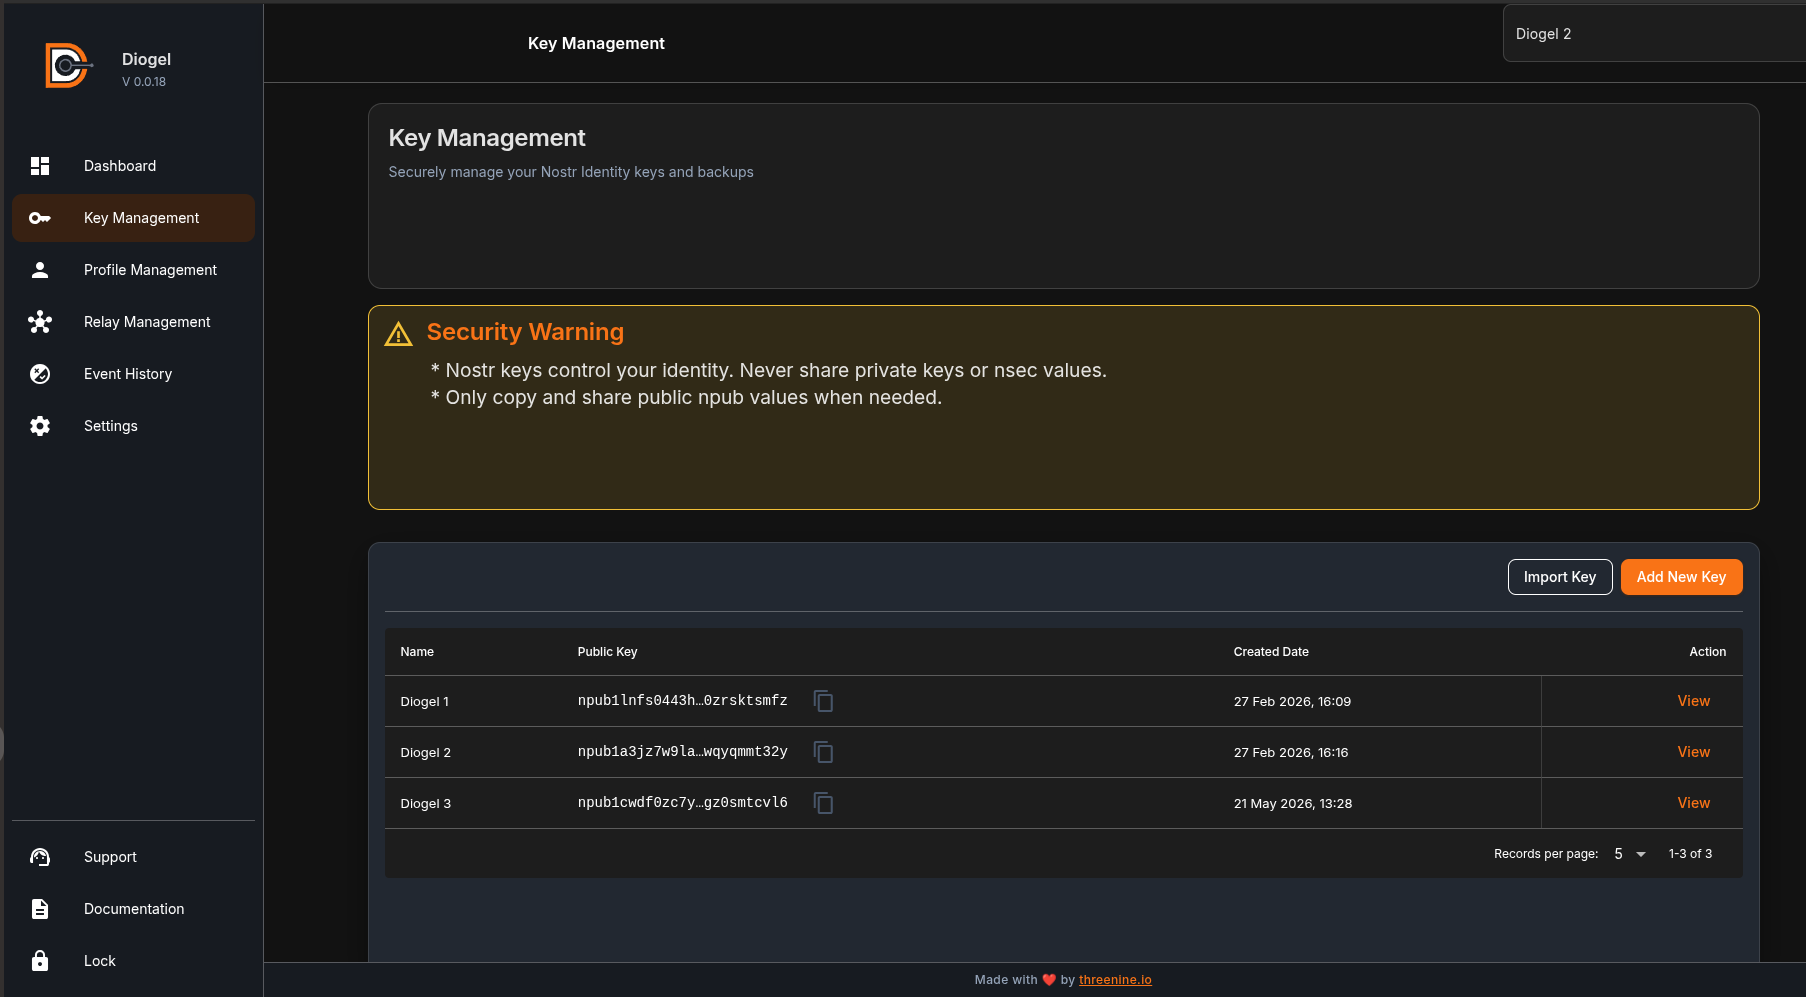
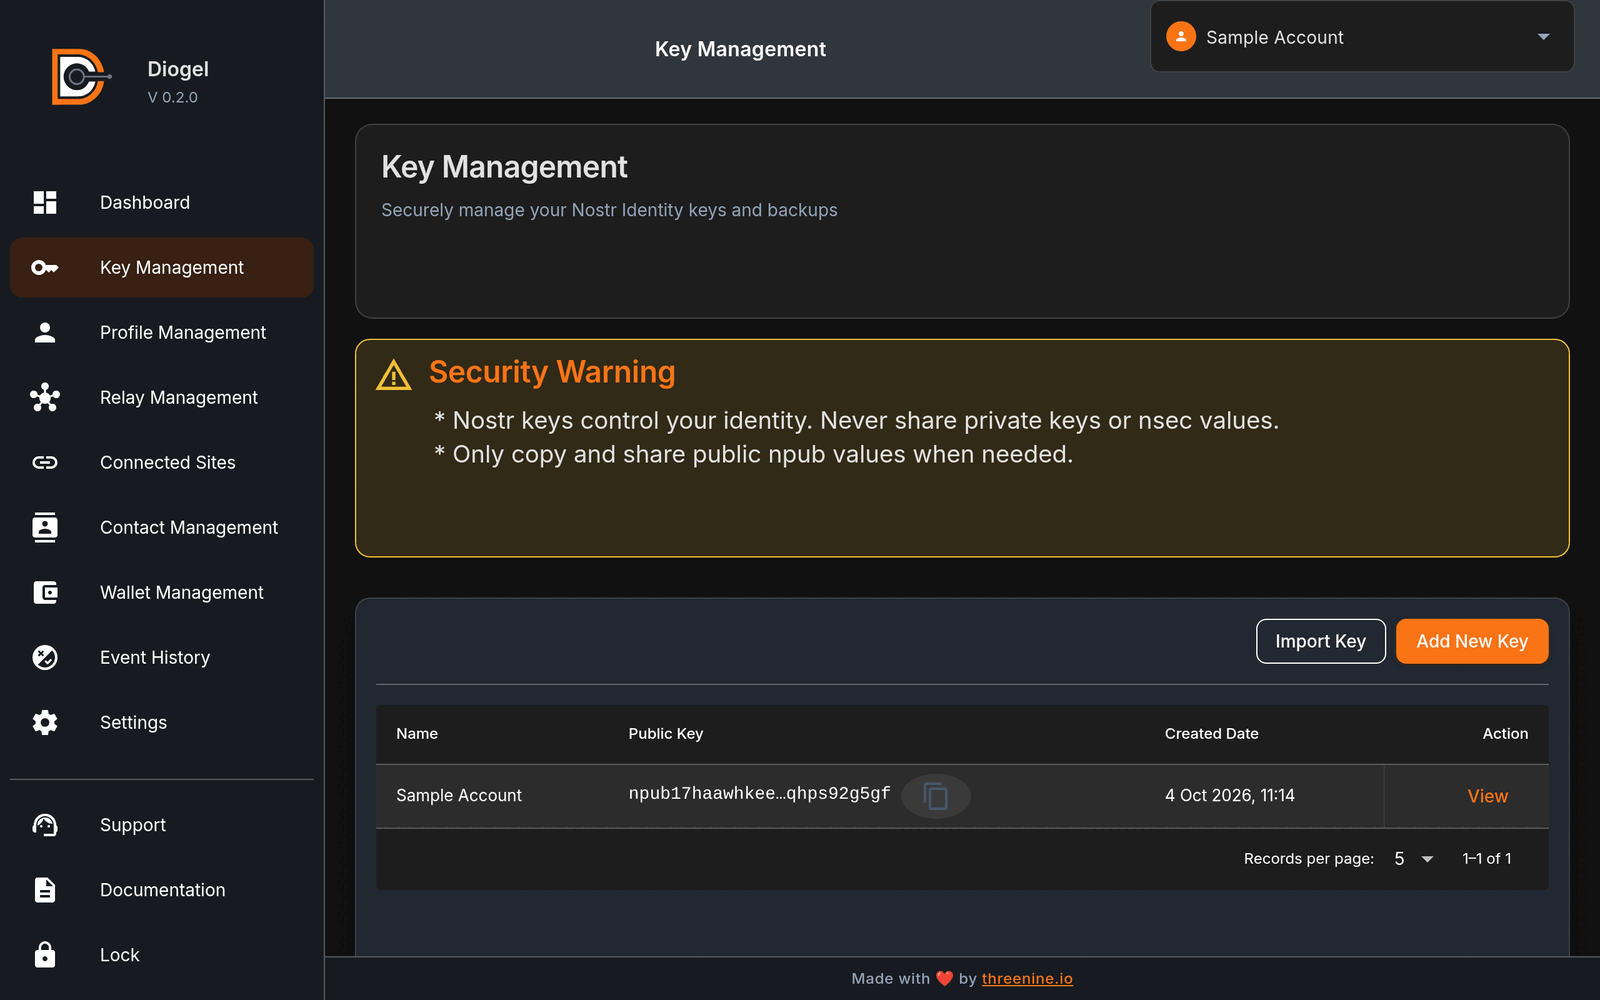
feat(website): add product screenshots to the product pages
Add real screenshots of Porwr (0.2.0), Bancwr (0.1.0-113) and a Symudol
development build to every product section, captured locally with
throwaway identities. Constrain image height on the Porwr and Symudol pages
so panel and phone shots are not oversized, and remove the stale
nip07-signing.png and the unused privacy-dashboard.png.

Fixes diogel-io/workspace#30

diff --git a/app/pages/symudol.vue b/app/pages/symudol.vue
@@ -36,7 +36,7 @@ useHead({ link: [{ rel: 'canonical', href: 'https://diogel.io/symudol' }] })
         v-if="section.image"
         :alt="section.title"
         :src="section.image"
-        class="w-full rounded-lg shadow-xl ring-1 ring-gray-300 dark:ring-gray-700"
+        class="mx-auto max-h-[640px] w-auto max-w-full rounded-lg shadow-xl ring-1 ring-gray-300 dark:ring-gray-700"
       >
     </UPageSection>
 

diff --git a/app/pages/porwr.vue b/app/pages/porwr.vue
@@ -35,7 +35,7 @@ useHead({ link: [{ rel: 'canonical', href: 'https://diogel.io/porwr' }] })
         v-if="section.image"
         :alt="section.title"
         :src="section.image"
-        class="w-full rounded-lg shadow-xl ring-1 ring-gray-300 dark:ring-gray-700"
+        class="mx-auto max-h-[640px] w-auto max-w-full rounded-lg shadow-xl ring-1 ring-gray-300 dark:ring-gray-700"
       >
     </UPageSection>
 
